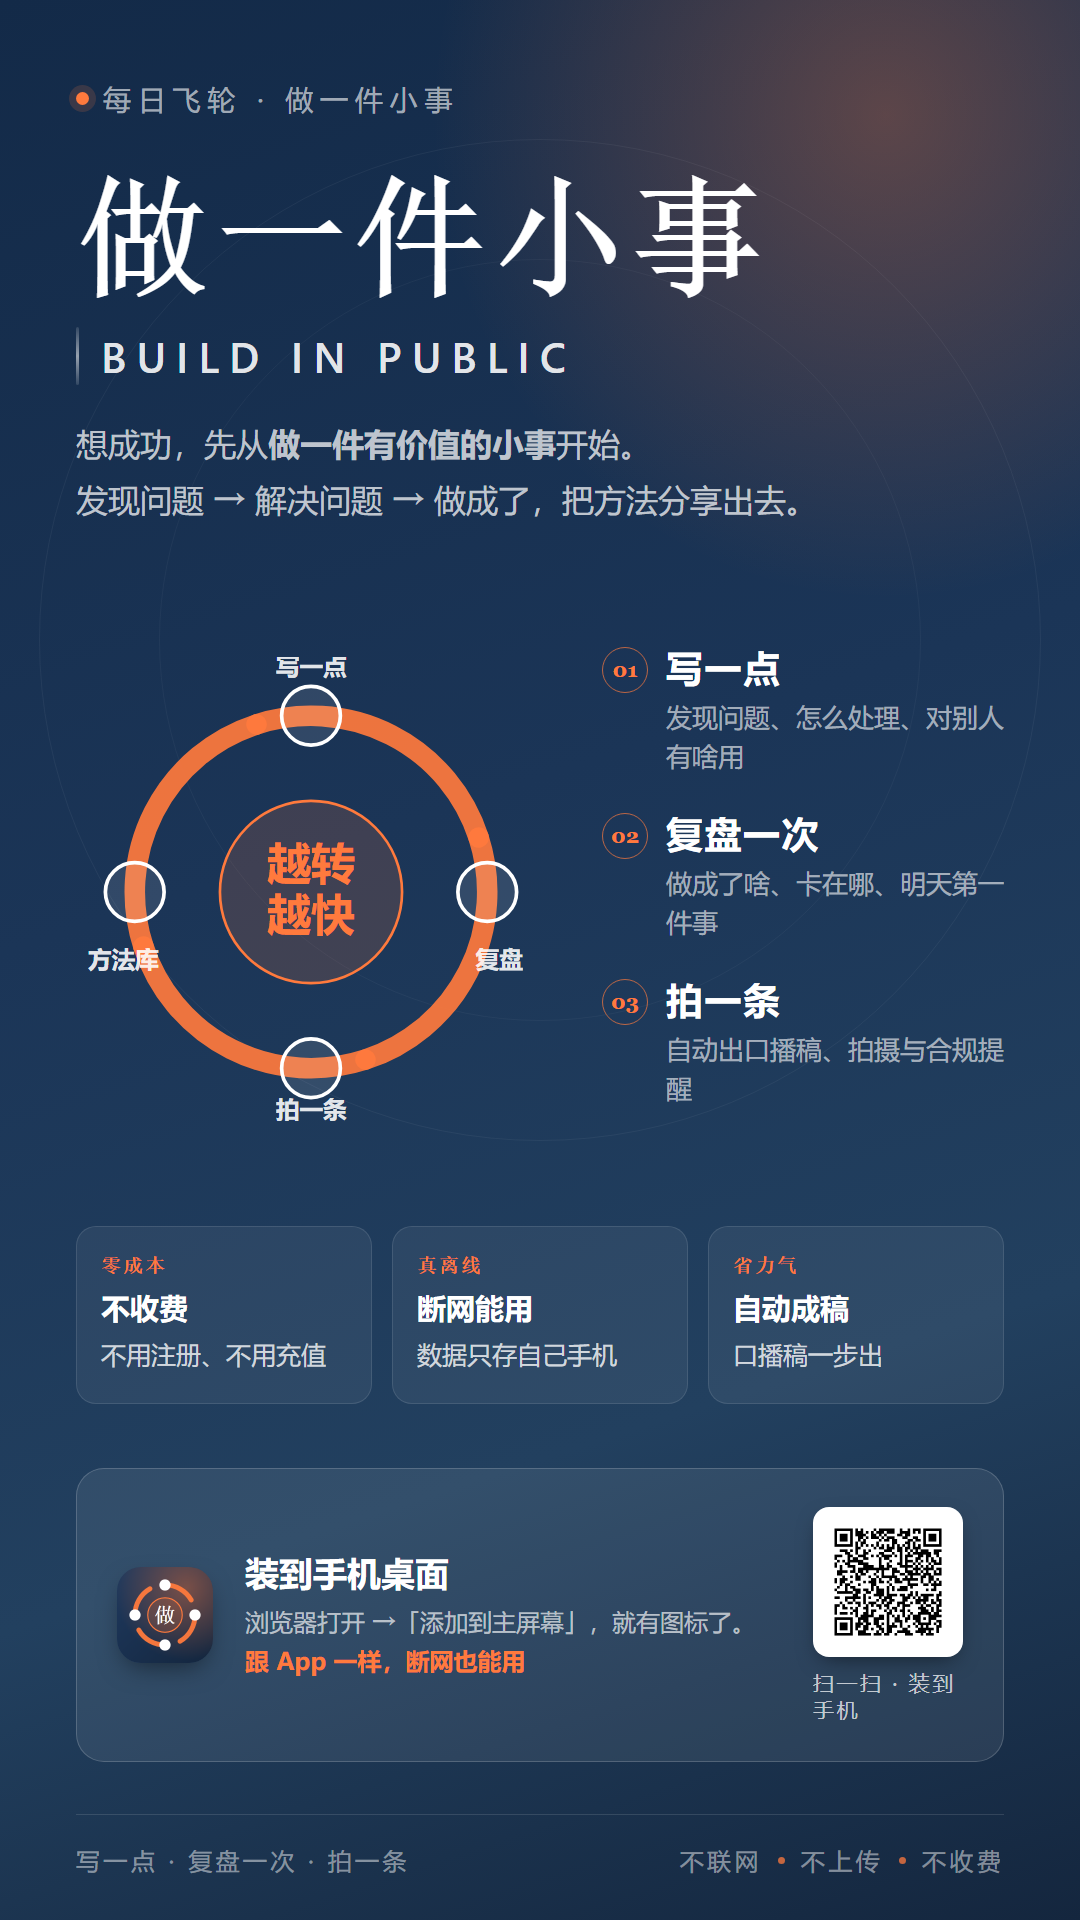
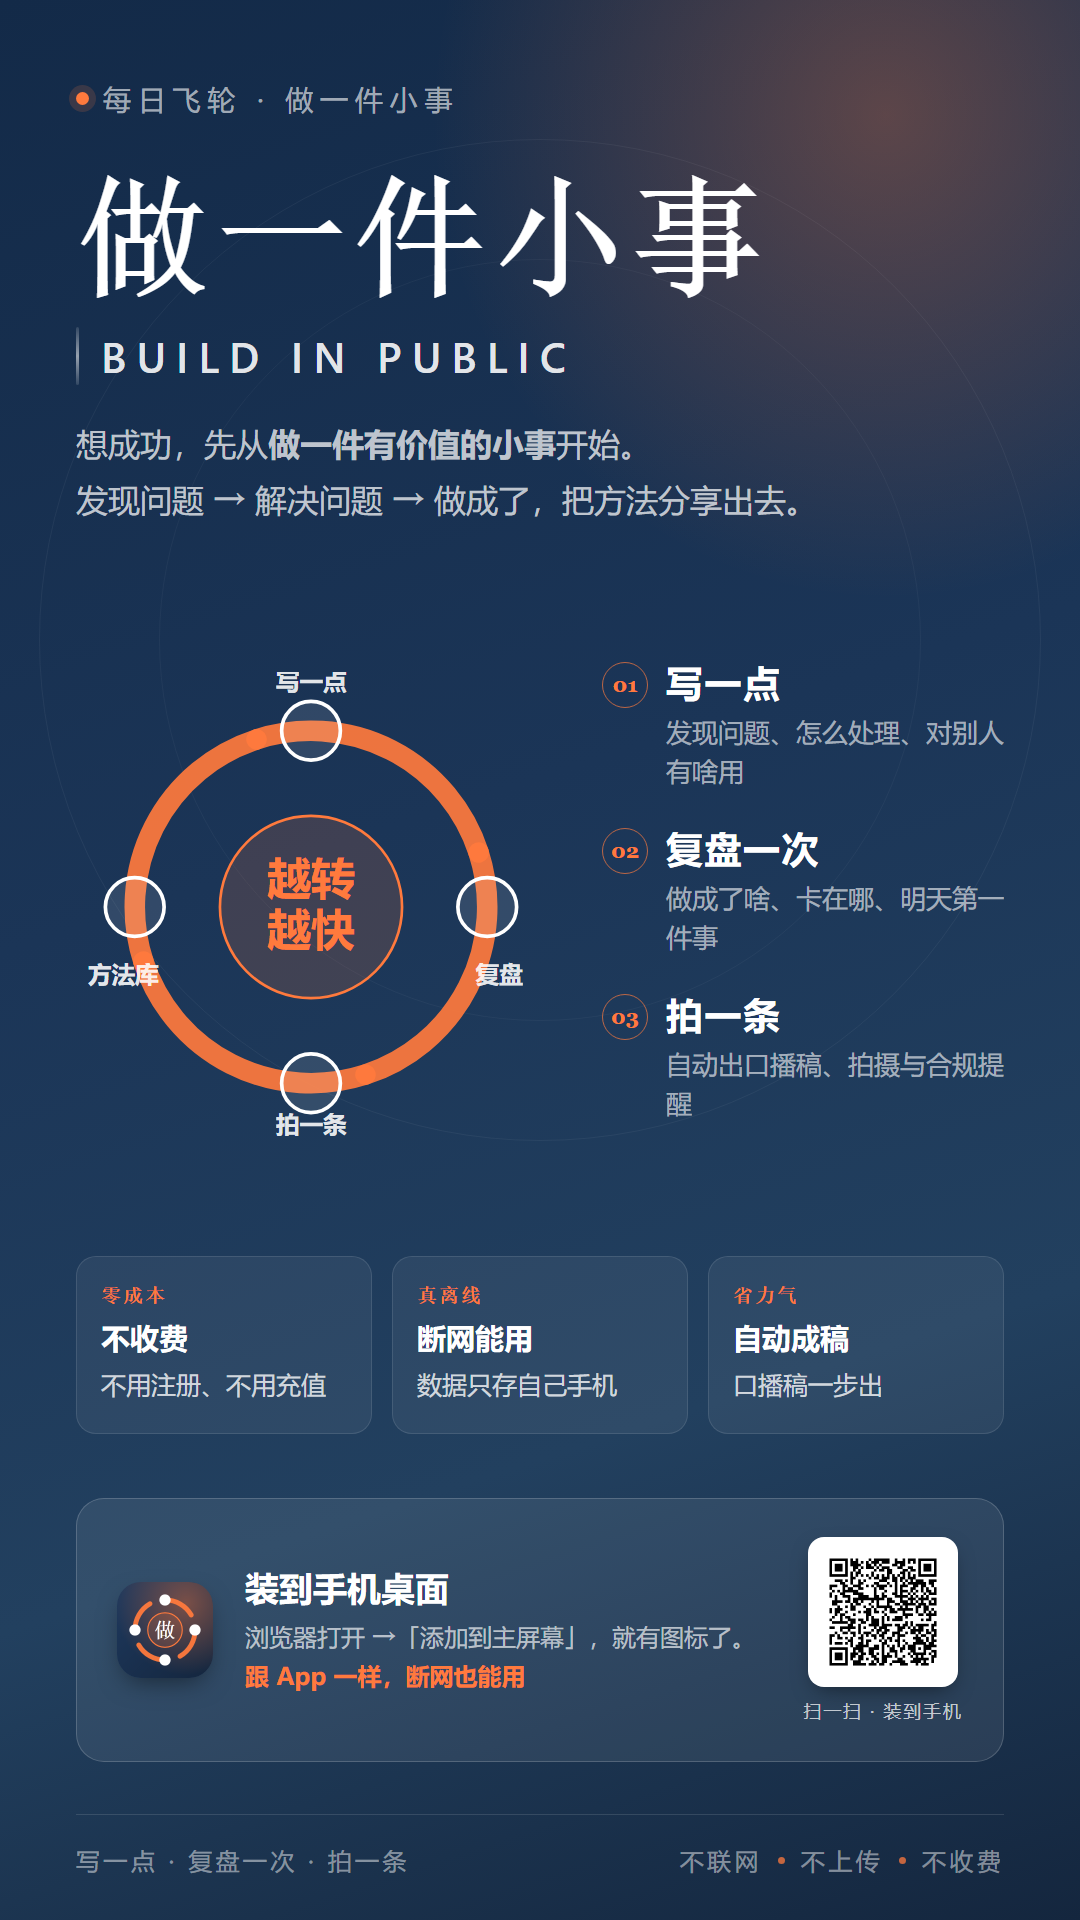
手机海报：二维码说明文字收为单行，排版更精致

diff --git a/手机海报.html b/手机海报.html
@@ -90,9 +90,9 @@ body::after{
 .install .tx b{display:block;font-size:34px;font-weight:700;margin-bottom:8px}
 .install .tx span{font-size:24px;color:rgba(255,255,255,.66);line-height:1.6}
 .install .tx span em{font-style:normal;color:#FF7A3D;font-weight:700}
-.install .qr{flex:0 0 150px;display:flex;flex-direction:column;align-items:center;gap:12px;margin-left:4px}
+.install .qr{flex:0 0 160px;display:flex;flex-direction:column;align-items:center;gap:12px;margin-left:4px}
 .install .qr img{width:150px;height:150px;border-radius:16px;background:#fff;padding:11px;box-sizing:border-box;display:block;box-shadow:0 8px 22px -8px rgba(0,0,0,.55)}
-.install .qr span{font-size:21px;color:rgba(255,255,255,.72);letter-spacing:.12em}
+.install .qr span{font-size:18px;color:rgba(255,255,255,.72);letter-spacing:.10em;white-space:nowrap}
 
 .foot{
   display:flex;justify-content:space-between;align-items:center;
